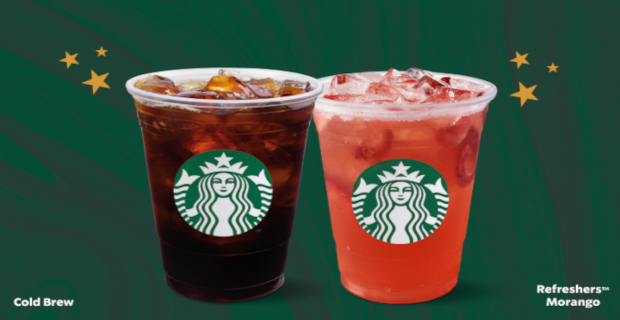
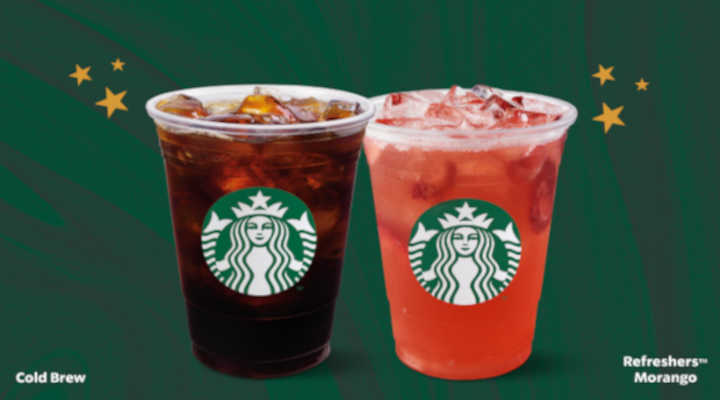
atualizado

diff --git a/projeto-starbucks/assets/style/style.css b/projeto-starbucks/assets/style/style.css
@@ -2,55 +2,161 @@
 exercícios em CSS EHTML de repertição do site starbuck 
 */
 body{
-
     display: flex;
     flex-direction: column ;
     align-items: center;
-    background-color: white;
-}
-.button{
-
 
 }
+
+button{
+    width: 110px;
+    height: 30px;
+    border-radius: 20px;
+    background-color: transparent;
+    border-color: #1b342e;
+    cursor: pointer;
+    transition: 300ms;
+}
+
+button:hover{
+    width: 100px;
+    height: 25px;
+    border-radius: 20px;
+    background-color: #1b342e;
+    border-color: #1b342e;
+    color: #ffffff;
+    cursor: pointer;
+    transition: 300ms; 
+    box-shadow: -2px 5px 5px -3px rgba(0,0,0,0.42);
+    -webkit-box-shadow: -2px 5px 5px -3px rgba(0,0,0,0.42);
+    -moz-box-shadow: -2px 5px 5px -3px rgba(0,0,0,0.42);
+}
+
 .titulo{
-
-    font-family: Arial, Helvetica, sans-serif;
-    color:#1E3932;
-    font-size:30px;
+    font-family: Helvetica;
+    color: #1e3932;
+    font-size: 20px;
+    margin-bottom: 20px;
+    display: flex;
+   
 }
+
+.efeito-botao{
+    display: flex;
+    flex-direction: column;
+    align-items: center;
+    height: 50px;
+    align-items: center;
+    
+}
+
 .descricao {
 
     font-family: Arial, Helvetica, sans-serif;
     color:#1E3932;
     font-size: 30px;
-    border: 1px solid
+    text-align: center;
+}
+
+#menu{
+    font-size: 12px;
+    width: 1440px; /*Largura*/
+    height: 100px; /*Altura*/
+    background-color: #ffffff; /*Cor do fundo*/
+    display: flex; /*Usado para flexibilizar e movimentar linha ou coluna*/
+    flex-direction: row; /*Alinhar em linha*/
+    justify-content: space-between; 
+}
+
+#nav-esquerda{
+    width: 700px;
+    height: 100px;
+    display: flex;
+    flex-direction: row;
+    align-items: center;
+}
+
+#logo-starbucks{
+    width: 51;
+    height: 51;
+    margin-right: 30px;
+}
+
+.ul-menu{
+    display: flex;
+    flex-direction: row;
+    list-style: nome;
+}
+
+.li-menu{
+    margin-right: 30px;
 
 }
-#menu {
 
-width: 1240px;
-height: 80px;
-margin-top: 32px;
-background-color:#FFFFFF;
+a {
+    font-family: Helvetica;
+    color: #1b342e;
+    text-decoration: none; /*Tirar linha abaixo de marcação do link*/
+    font-weight: 800;
+    letter-spacing: 2px; 
+}
+
+a:hover{
+    font-family: Helvetica;
+    color:#3a8b78;
+    text-decoration: nome;
+    font-weight: 800;
+
+}
+
+#nav-direita{
+    width: 700px;
+    height: 100px;
+    display: flex;
+    flex-direction: row;
+    justify-content: flex-end;
+    align-items: center;
+}
+
+#logo-starbucks{
+    width: 100px;
+    height: 30px;
+    margin-right: 50px;
+}
+
+#logo-historia {
+    width: 120px;
+    height: 80px;
+    margin-right: 50px;
+}
+
+#menu {
+    width: 1800px;
+    height: 90px;
+    margin-top: 32px;
+    background-color:#FFFFFF;
+
 }
 #banner01 {
-
-    width: 1240px;
-    height: 320px;
+    width: 1440px;
+    height: 400px;
     background-color:#022b1e;
     margin-top: 32px;
 }
+.destaque{
+    display: flex;
+    flex-direction: column;
+    align-items: center;
+}
 #texto-01 {
-
     display: flex;
     flex-direction: column;
     align-items: center;
     justify-content: center;
-    bottom: 1px solid black;
-    width: 1240px;
-    height: 170px;
+    width: 1340px;
+    height: 200px;
     background-color:#D4E9E2 ;
-    margin-top: 32px;
+    margin-bottom: 32px;
 }
 #coluna-dois-copos {
 
@@ -59,17 +165,17 @@ background-color:#FFFFFF;
 }
 #texto02 {
     display: flex;
-    flex-direction: column;
     align-items: center;
-    bottom: 1px solid black;
-    width: 620px;
-    height: 300px;
+    flex-direction: column;
+    justify-content: center;
+    width: 720px;
+    height: 400px;
     background-color:#D4E9E2 ;
     margin-top: 32px;
 }
 #banner02 {
-    width: 620px;
-    height: 300px;
+    width: 720px;
+    height: 400px;
     background-color: darkgreen;
     margin-top: 32px;
 }

diff --git a/projeto-starbucks/index.html b/projeto-starbucks/index.html
@@ -13,9 +13,26 @@
 
 <body>
     <!--identação é o espaso dado no inicio de uma linha filha -->
-    <div id="menu">
-        <p class="desscricao" > menu </p>
-    </div>
+    <header id="menu">
+        <nav id=" nav-esquerda">
+            <figure>
+                <img id="logo-starbucks" src="assets/images/starbucks-nav-logo-banner.jpg" alt="imagem starbucks-nav-logo-banner" title="logo-starbucks">
+            </figure>
+            <ul>
+                <li class=" li-menu"><a href="#"> MENU </a></li>   
+                <li class=" li-menu"><a href="#"> NOSSO CAFE </a></li>
+                <li class=" li-menu"><a href="#"> IMPACTO SOCIAL </a></li>
+            </ul>    
+        </nav>
+        <nav id=" nav-direita ">
+            <figure>
+                <img id="logo-historia" src="assets/images/sb-historias-logo-banner.jpg" alt=" imagem-historia-starbucks " title="logo-historia">      
+            </figure>
+            <ul>
+                <li><a href="#"> ENCONTRE UMA LOJA </a></li>
+            </ul>
+        </nav>
+    </header>
 
     <div id="banner01">
         <figure>
@@ -23,9 +40,10 @@
         </figure>
     </div>
 
-    <div id="texto01">
+    <div class="destaque">
         <h4 class="titulo" > "Comando encerramento do programa Starbuck Rewards, Starbuck Card e aplicativo Starbuck Brasil"</h4>
-        <button> sabia mais</button>
+        <div class="efeito-efeito"></div>
+        <button> sabia mais </button>
     </div>
 
     <div id="coluna-dois-copos">
